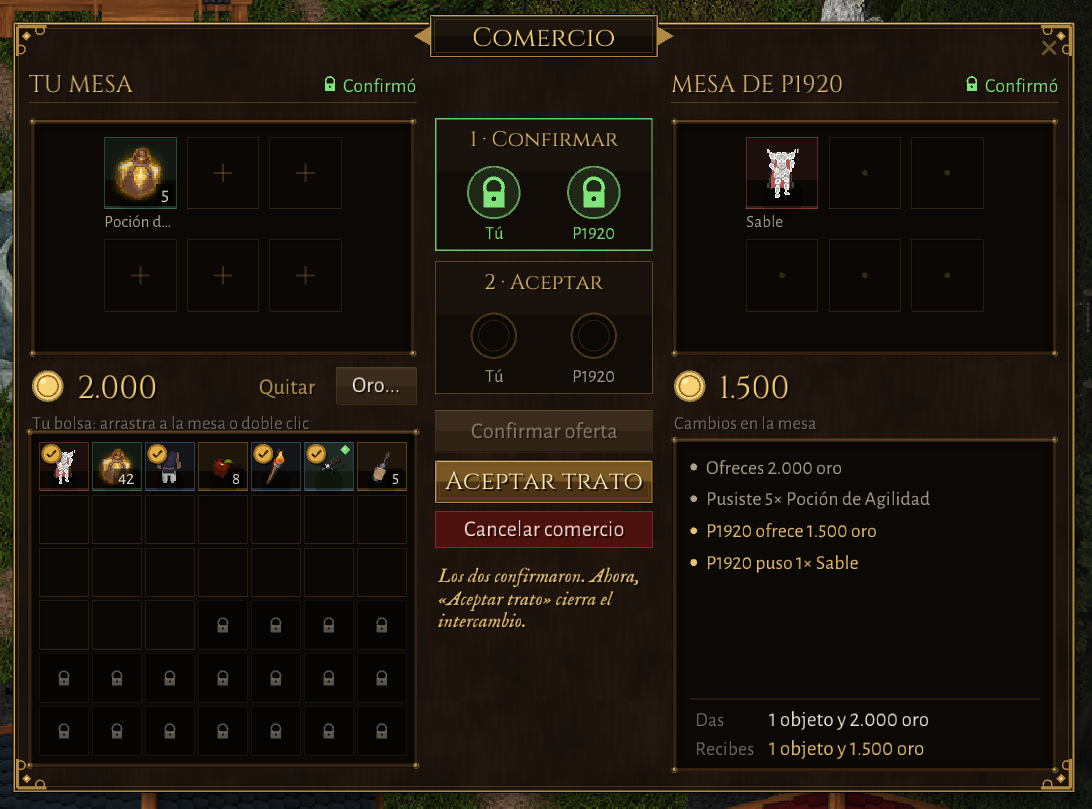
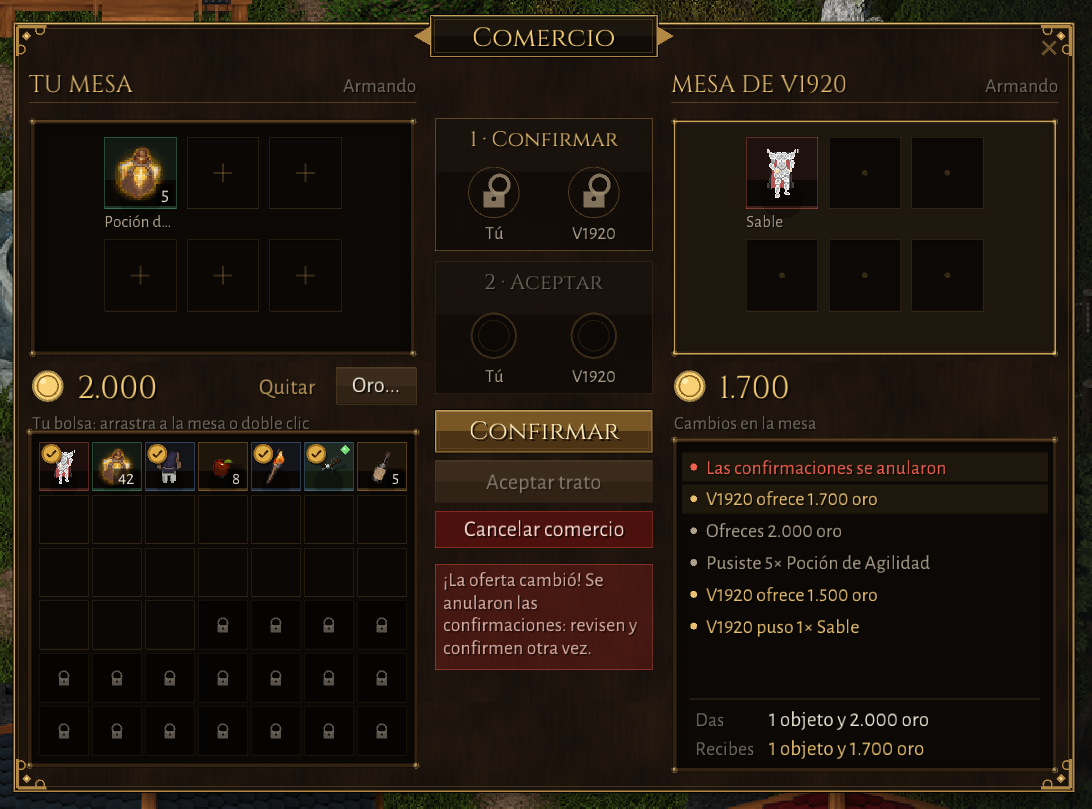
Numic AO: toast de fin de comercio segun el servidor, aviso de oferta cambiada, clase/raza/sexo en rojo, foco del buscador, 4 capturas

diff --git a/crates/client-core/src/p3/items.rs b/crates/client-core/src/p3/items.rs
@@ -393,6 +393,11 @@ pub struct Viewer {
     pub faction: Option<u8>,
     /// Skill levels, index 0 = skill id 1.
     pub skills: Vec<u8>,
+    /// Class, race (Balance.dat ids) and sex (1 = male, 2 = female) of the player. Known only
+    /// when the character list of the account has him; `None` marks nothing in red.
+    pub class: Option<u8>,
+    pub race: Option<u8>,
+    pub gender: Option<u8>,
 }
 
 /// Tooltip of an object as lines for the item windows. Conventions (drawn by
@@ -474,20 +479,31 @@ pub fn rich_tooltip(o: &ObjData, amount: u32, equipped: bool, v: &Viewer) -> Vec
     if o.chaos != 0 {
         req(v.faction.is_none_or(ao_rules::faction::is_chaos), "Solo para la Legión Oscura".into());
     }
-    // The client does not know the own class, race or sex: shown, never marked red.
-    if o.male_only {
-        out.push("Solo hombres".into());
-    }
-    if o.female_only {
-        out.push("Solo mujeres".into());
+    // Class, race and sex are known only when the account's character list has the player
+    // (the development login has none): then a ban on them is red, otherwise just shown.
+    for (only, label, mine) in [(o.male_only, "hombres", 1u8), (o.female_only, "mujeres", 2u8)] {
+        if only {
+            out.push(match v.gender {
+                Some(g) if g != mine => format!("!Solo para {label}"),
+                _ => format!("Solo {label}"),
+            });
+        }
     }
     if !o.forbidden_classes.is_empty() {
         let names: Vec<&str> = o.forbidden_classes.iter().map(|c| c.spanish_name()).collect();
-        out.push(format!("Vetado a: {}", names.join(", ")));
+        let banned = v.class.and_then(|c| o.forbidden_classes.iter().find(|f| f.id() == c));
+        out.push(match banned {
+            Some(c) => format!("!Tu clase ({}) no puede usarlo", c.spanish_name()),
+            None => format!("Vetado a: {}", names.join(", ")),
+        });
     }
     if !o.forbidden_races.is_empty() {
         let names: Vec<&str> = o.forbidden_races.iter().map(|r| r.spanish_name()).collect();
-        out.push(format!("Vetado a razas: {}", names.join(", ")));
+        let banned = v.race.and_then(|c| o.forbidden_races.iter().find(|f| f.id() == c));
+        out.push(match banned {
+            Some(r) => format!("!Tu raza ({}) no puede usarlo", r.spanish_name()),
+            None => format!("Vetado a razas: {}", names.join(", ")),
+        });
     }
     if o.value > 0 {
         let sale = sale_value(o, 1);
@@ -744,10 +760,13 @@ impl Game {
         self.send(&C2S::PickUp);
     }
 
-    /// Who the tooltips talk to: level, faction (once known) and skills.
+    /// Who the tooltips talk to: level, faction (once known), skills and, when the account's
+    /// character list has him (matched by name), class, race and sex.
     pub fn viewer(&self) -> Viewer {
         let f = &self.local.social.faction;
-        Viewer { level: self.stats.level as i32, faction: f.known.then_some(f.status), skills: self.local.skills.clone() }
+        let name = self.me().map(|m| m.name.split('<').next().unwrap_or("").trim().to_lowercase());
+        let me = name.and_then(|n| self.characters.iter().find(|c| c.name.to_lowercase() == n));
+        Viewer { level: self.stats.level as i32, faction: f.known.then_some(f.status), skills: self.local.skills.clone(), class: me.map(|c| c.class), race: me.map(|c| c.race), gender: me.map(|c| c.gender) }
     }
 
     /// The swaps "Ordenar" would send now (`usable` = unlocked slots).
@@ -1436,7 +1455,7 @@ mod tests {
     #[test]
     fn rich_tooltip_marks_what_the_player_does_not_meet() {
         let o = ObjData { name: "Espada Real".into(), obj_type: ObjType::Weapon, min_hit: 4, max_hit: 9, value: 3000, min_level: 12, royal: 1, text: "Para combatir.".into(), ..Default::default() };
-        let weak = Viewer { level: 5, faction: Some(ao_rules::faction::CHAOS), skills: vec![] };
+        let weak = Viewer { level: 5, faction: Some(ao_rules::faction::CHAOS), ..Default::default() };
         let t = rich_tooltip(&o, 1, false, &weak);
         assert_eq!(t[0], "Espada Real");
         assert!(t[1].contains("Arma") && t[1].contains("Raro"));
@@ -1445,10 +1464,29 @@ mod tests {
         assert!(t.iter().any(|l| l.starts_with('!') && l.contains("nivel 12") && l.contains("tienes 5")));
         assert!(t.iter().any(|l| l.starts_with('!') && l.contains("Ejército Real")));
         assert!(t.iter().any(|l| l.starts_with('$') && l.contains("3000") && l.contains("1000")));
-        let strong = Viewer { level: 20, faction: Some(ao_rules::faction::ROYAL), skills: vec![] };
+        let strong = Viewer { level: 20, faction: Some(ao_rules::faction::ROYAL), ..Default::default() };
         assert!(!rich_tooltip(&o, 1, true, &strong).iter().any(|l| l.starts_with('!')));
         let none = ObjData { name: "Pan".into(), obj_type: ObjType::UseOnce, ..Default::default() };
         assert!(rich_tooltip(&none, 3, false, &strong)[2].starts_with('~'), "a role phrase when obj.dat has no text");
+    }
+
+    #[test]
+    fn class_race_and_sex_come_from_the_character_list() {
+        use ao_formats::dat::balance::Class;
+        let mut g = game();
+        g.my_id = 1;
+        g.ents.insert(1, Ent::new("Merlín <Clan>".into(), EntityKind::Player, 1, 1, 10, 10, ao_rules::Dir::Down, 10, 10));
+        assert_eq!(g.viewer().class, None, "no character list (development login)");
+        g.characters = vec![ao_protocol::CharacterSummary { name: "merlín".into(), level: 5, race: 2, class: 1, gender: 2, body: 1, head: 1, map: 1 }];
+        let v = g.viewer();
+        assert_eq!((v.class, v.race, v.gender), (Some(1), Some(2), Some(2)));
+        let o = ObjData { name: "Cota".into(), obj_type: ObjType::Armor, forbidden_classes: vec![Class::Mage], male_only: true, ..Default::default() };
+        let t = rich_tooltip(&o, 1, false, &v);
+        assert!(t.iter().any(|l| l.starts_with('!') && l.contains("Mago")), "{t:?}");
+        assert!(t.iter().any(|l| l.starts_with('!') && l.contains("hombres")));
+        let t = rich_tooltip(&o, 1, false, &Viewer::default());
+        assert!(!t.iter().any(|l| l.starts_with('!')), "unknown class: shown, not red");
+        assert!(t.iter().any(|l| l.contains("Vetado a")));
     }
 
     #[test]

diff --git a/crates/client/src/ui/inventory.rs b/crates/client/src/ui/inventory.rs
@@ -27,6 +27,7 @@ use std::collections::HashMap;
 
 /// Size (in UI units) each item window needs. `ui/frame.rs` (integrator) has the table:
 /// `default_size` should return these for Inventory, Bank, Shop and Trade.
+#[allow(dead_code)] // until the integrator calls it from `WindowId::default_size` (see the report)
 pub fn wanted_size(w: WindowId) -> Option<Vec2> {
     match w {
         WindowId::Inventory => Some(vec2(680.0, 520.0)),
@@ -991,7 +992,7 @@ pub(crate) fn draw_grid(ui: &Ui, assets: &mut Assets, g: &Grid, o: Vec2, v: &Gri
             glow = !v.query.is_empty() && ok_q && ok_cat;
         }
         let badge = if v.sale_badges && it.is_some() { it.map(|i| if i.equipped { 0 } else { assets.objs.get(i.obj as u32).map_or(0, |ob| sale_value(ob, 1)) }) } else { None };
-        let opts = CellOpts { selected: v.selected == slot && it.is_some(), hover, dim, glow, locked: i >= v.locked_from, ghost: drag_src == Some(slot) && ui.drag.is_some(), drop_ok: fits, badge, no_amount: false };
+        let opts = CellOpts { selected: v.selected == slot && it.is_some(), hover, dim, glow, locked: i >= v.locked_from, ghost: drag_src == Some(slot) && ui.drag.is_some(), drop_ok: fits && i < v.locked_from, badge, no_amount: false };
         draw_cell(assets, r, it, &opts, u);
         if v.from == WindowId::Inventory {
             zones.push((Zone::InvCell(slot), r));
@@ -1758,12 +1759,14 @@ pub fn draw(ui: &mut Ui, game: &mut Game, assets: &mut Assets, r: Rect) {
     let search_r = Rect::new(rx + 22.0 * u, ry, (sl_x - 12.0 * u) - (rx + 22.0 * u), rowh2);
     glyph(Glyph::Search, vec2(rx + 8.0 * u, ry + rowh2 / 2.0), 7.0 * u, alpha(GOLD, 0.8));
     let mut q = st(|s| std::mem::take(&mut s.search));
-    widgets::text_field(ui, "inv_search", &mut q, search_r, 24, false, |c| !c.is_control());
+    let enter = widgets::text_field(ui, "inv_search", &mut q, search_r, 24, false, |c| !c.is_control());
     if q.is_empty() && ui.focus.as_deref() != Some("inv_search") {
         widgets::placeholder(search_r, "Buscar…", u);
     }
-    if ui.focus.as_deref() == Some("inv_search") && is_key_pressed(KeyCode::Escape) {
-        q.clear();
+    // The field gives the keyboard back (so the character can walk) on Enter, Esc, and a
+    // click anywhere else in the window.
+    let clicked_elsewhere = lmb_pressed() && !search_r.contains(m) && ui.focus.as_deref() == Some("inv_search");
+    if ui.focus.as_deref() == Some("inv_search") && (enter || is_key_pressed(KeyCode::Escape) || clicked_elsewhere) {
         ui.focus = None;
     }
     if !q.is_empty() {
@@ -1917,6 +1920,7 @@ fn demo_tick(ui: &mut Ui, game: &mut Game, assets: &Assets) {
     .collect();
     let gifts: Vec<(u16, u32)> = if mode == "inv" { gifts } else { gifts.into_iter().take(7).chain(std::iter::once((12u16, 10_000u32))).collect() };
     let slot_of = |g: &Game, ty: T| g.local.inventory.iter().position(|i| i.is_some_and(|i| assets.objs.get(i.obj as u32).is_some_and(|o| o.obj_type == ty))).map(|p| p as u8 + 1);
+    let when = |k: &str| std::env::var(k).ok().and_then(|v| v.parse::<f64>().ok());
     if mode == "trade_peer" {
         // The other player: gives itself two objects, accepts the invitation, offers.
         match step {
@@ -1940,6 +1944,16 @@ fn demo_tick(ui: &mut Ui, game: &mut Game, assets: &Assets) {
                 game.trade_confirm();
                 advance();
             }
+            // `AO_DEMO_WIPE=<t>`: changes the gold after both confirmed (wipes the seals).
+            4 if when("AO_DEMO_WIPE").is_some_and(|w| t > w) && game.local.social.trade.player.is_some() => {
+                game.trade_offer_gold(1700);
+                advance();
+            }
+            // `AO_DEMO_ACCEPT=1`: confirms again and accepts, to see the deal close.
+            4 if std::env::var("AO_DEMO_ACCEPT").is_ok() && game.plan_accept().is_ok() => {
+                game.trade_accept();
+                advance();
+            }
             _ => {}
         }
         return;
@@ -1950,7 +1964,6 @@ fn demo_tick(ui: &mut Ui, game: &mut Game, assets: &Assets) {
     thread_local! {
         static DEALT: std::cell::Cell<bool> = const { std::cell::Cell::new(false) };
     }
-    let when = |k: &str| std::env::var(k).ok().and_then(|v| v.parse::<f64>().ok());
     if !DEALT.with(|d| d.get()) && game.local.social.trade.shop.is_some() {
         if when("AO_DEMO_BUY").is_some_and(|b| t > b) {
             DEALT.with(|d| d.set(true));            if let Some((slot, it)) = game.local.social.trade.shop.as_ref().and_then(|s| s.items.iter().next().map(|(k, v)| (*k, *v))) {
@@ -2095,6 +2108,10 @@ fn demo_tick(ui: &mut Ui, game: &mut Game, assets: &Assets) {
                     st(|s| s.menu = Some(Menu { win: WindowId::Inventory, hit, pos: mouse(), fresh: false }));
                 }
             }
+            advance();
+        }
+        s if s == n + 8 && gap > 1.0 && std::env::var("AO_DEMO_ACCEPT").is_ok() && game.plan_accept().is_ok() => {
+            game.trade_accept();
             advance();
         }
         s if s == n + 7 && gap > 0.5 => {

diff --git a/crates/client/src/ui/trade.rs b/crates/client/src/ui/trade.rs
@@ -62,8 +62,10 @@ fn watch(game: &Game) {
     match (cur, seen) {
         (Some(t), Some(s)) if s.name == t.name => {
             let (dm, dt) = (diff_offers(&s.mine, &t.mine), diff_offers(&s.theirs, &t.theirs));
+            // The confirmations dropped while the trade stayed open: a change wiped them (the
+            // offer and the status may reach us in different frames, so the diff is not required).
             let had_seal = s.i_confirmed || s.they_confirmed || s.i_accepted || s.they_accepted;
-            let wiped = had_seal && !(t.i_confirmed || t.they_confirmed) && (!dm.is_empty() || !dt.is_empty());
+            let wiped = had_seal && !(t.i_confirmed || t.they_confirmed);
             aux(|a| {
                 if !dm.is_empty() {
                     a.trade_flash[0] = now;
@@ -95,8 +97,8 @@ fn watch(game: &Game) {
             });
         }
         (None, Some(s)) => {
-            // It ended: closed with a deal (both accepted) or cancelled.
-            if s.i_accepted && s.they_accepted {
+            // It ended: the server says whether the deal was done or the trade cancelled.
+            if game.local.social.trade.last_done == Some(true) {
                 toast(format!("Trato cerrado con {}", s.name), ToastKind::Good);
             } else {
                 toast(format!("Comercio con {} cancelado", s.name), ToastKind::Warn);
@@ -456,7 +458,7 @@ fn steps(game: &mut Game, t: &PlayerTrade, phase: TradePhase, assets: &Assets, p
     let can_confirm = game.plan_confirm().is_ok();
     let can_accept = game.plan_accept().is_ok();
     let step1_kind = if can_confirm { Kind::Primary } else { Kind::Secondary };
-    if ibtn_kind(Rect::new(p.x, by, p.w, bh), "Confirmar oferta", step1_kind, can_confirm, act, u) {
+    if ibtn_kind(Rect::new(p.x, by, p.w, bh), "Confirmar", step1_kind, can_confirm, act, u) {
         game.trade_confirm();
     }
     let step2_kind = if can_accept { Kind::Primary } else { Kind::Secondary };

diff --git a/crates/client/src/ui/bank.rs b/crates/client/src/ui/bank.rs
@@ -90,6 +90,10 @@ pub fn draw(ui: &mut Ui, game: &mut Game, assets: &mut Assets, r: Rect) {
     if gtxt.is_empty() && ui.focus.as_deref() != Some("bank_gold") {
         widgets::placeholder(field, "cantidad", u);
     }
+    // The field gives the keyboard back on Enter and on a click anywhere else.
+    if ui.focus.as_deref() == Some("bank_gold") && (enter || (inv::lmb_pressed() && !field.contains(m))) {
+        ui.focus = None;
+    }
     let amount = client_core::p3::items::parse_qty(&gtxt, u32::MAX);
     let (bw, bh) = (116.0 * u, 34.0 * u);
     let take = Rect::new(field.x - 8.0 * u - bw, field.y, bw, bh);

diff --git a/crates/client/src/ui/shop.rs b/crates/client/src/ui/shop.rs
@@ -256,6 +256,9 @@ fn counter(ui: &mut Ui, game: &mut Game, assets: &mut Assets, bar: Rect, d: &Dea
         qt = d.max.to_string();
     }
     let enter = widgets::text_field(ui, "shop_qty", &mut qt, field, 6, false, |c| c.is_ascii_digit());
+    if ui.focus.as_deref() == Some("shop_qty") && (enter || (inv::lmb_pressed() && !field.contains(mouse()))) {
+        ui.focus = None;
+    }
     if qt.is_empty() && ui.focus.as_deref() != Some("shop_qty") {
         let s = n.to_string();
         let dm = measure(&s, 18.0 * u);
